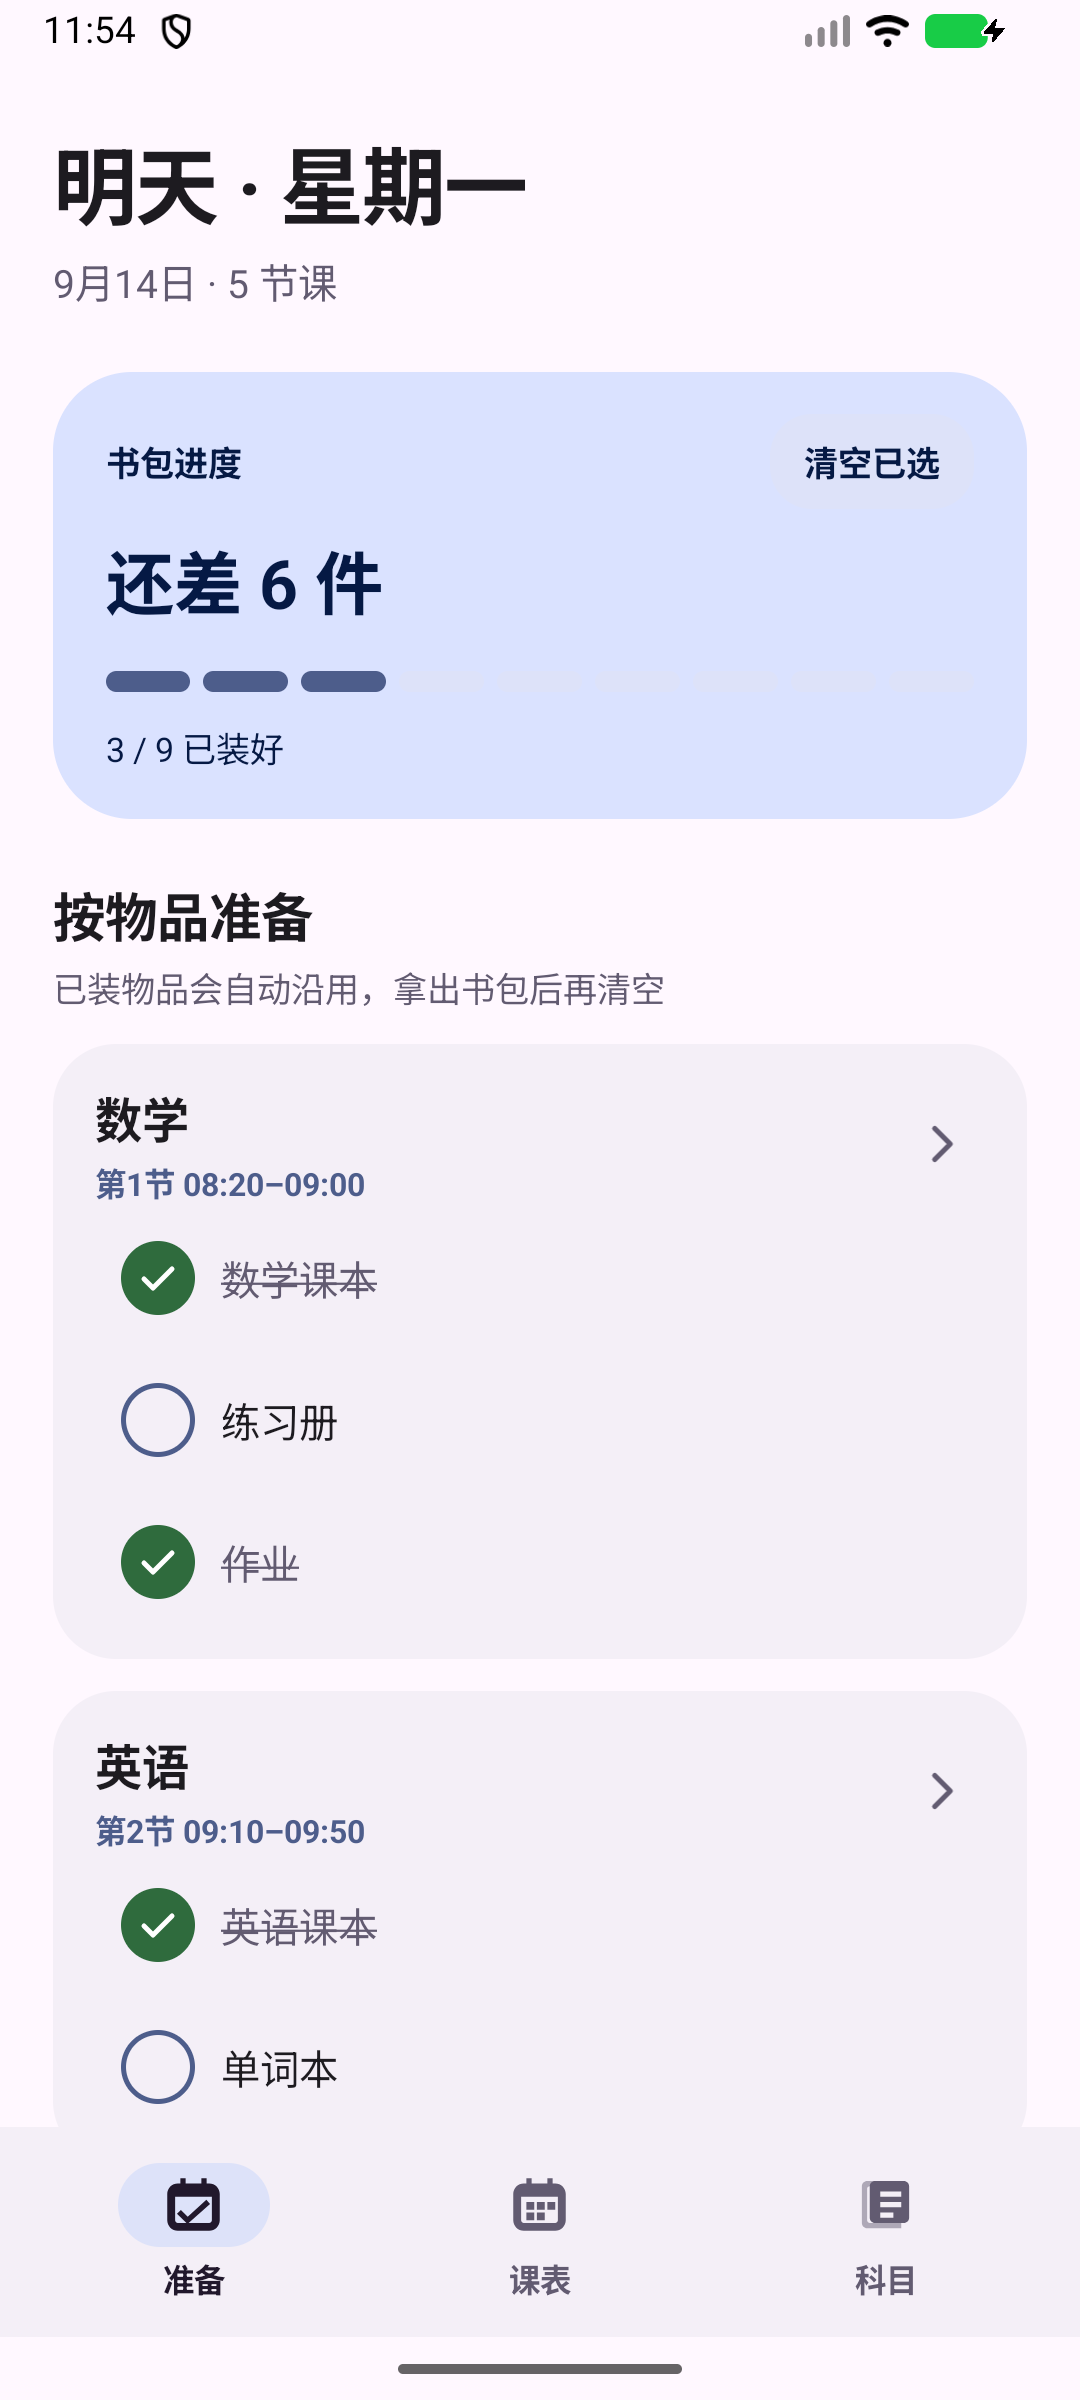
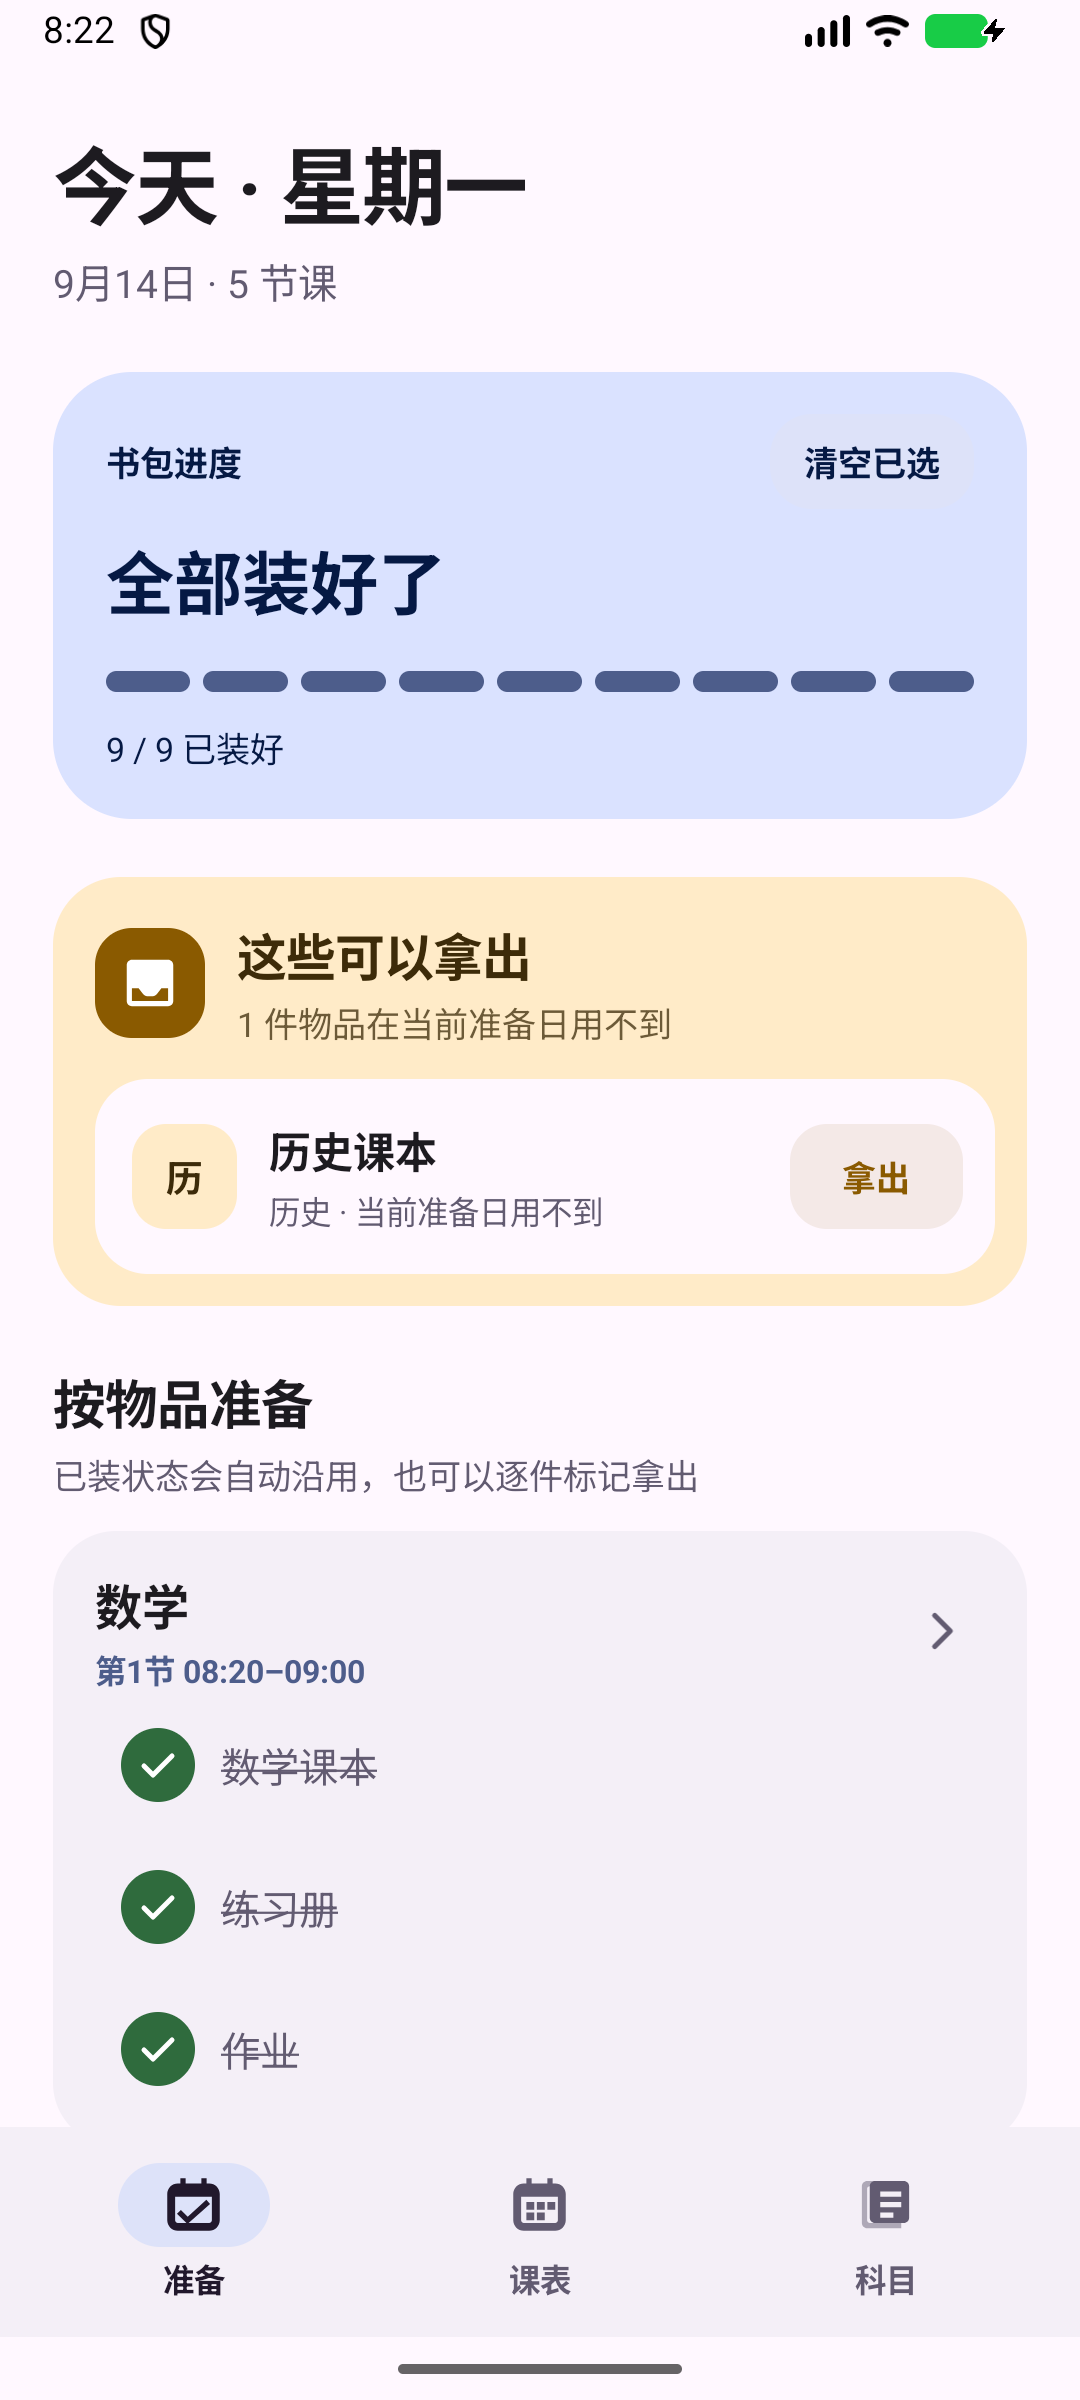
Add take-out guidance for packed items

diff --git a/app/src/main/java/com/kechengbao/app/CoursePackActivity.java b/app/src/main/java/com/kechengbao/app/CoursePackActivity.java
@@ -1,5 +1,8 @@
 package com.kechengbao.app;
 
+import android.animation.Animator;
+import android.animation.AnimatorListenerAdapter;
+import android.animation.ValueAnimator;
 import android.app.Activity;
 import android.app.Dialog;
 import android.content.Intent;
@@ -18,6 +21,7 @@ import android.util.Base64;
 import android.view.Gravity;
 import android.view.HapticFeedbackConstants;
 import android.view.View;
+import android.view.ViewGroup;
 import android.view.Window;
 import android.view.WindowInsets;
 import android.view.WindowManager;
@@ -71,7 +75,8 @@ public class CoursePackActivity extends Activity {
     private LocalDate checklistDate;
     private int pageTransitionId;
     private int bg, surface, surfaceHigh, text, muted, primary, onPrimary, primaryContainer, onPrimaryContainer,
-            secondary, onSecondary, tertiaryContainer, onTertiaryContainer, outline, success;
+            secondary, onSecondary, tertiaryContainer, onTertiaryContainer, outline, success,
+            warningContainer, onWarningContainer, warningAccent;
     private boolean dark;
     private final PathInterpolator emphasized = new PathInterpolator(.2f, 0f, 0f, 1f);
 
@@ -115,6 +120,8 @@ public class CoursePackActivity extends Activity {
         surfaceHigh = dark ? 0xFF2B2930 : 0xFFF4EFF7; text = dark ? 0xFFEAE0EC : 0xFF1D1B20;
         muted = dark ? 0xFFCAC4D0 : 0xFF625B71; outline = dark ? 0xFF49454F : 0xFFE3DDE7;
         success = dark ? 0xFF9BD4A8 : 0xFF2F6B3D;
+        warningContainer = dark ? 0xFF3B2D17 : 0xFFFFEBC8; onWarningContainer = dark ? 0xFFFFE1AD : 0xFF3D2B09;
+        warningAccent = dark ? 0xFFFFB95C : 0xFF8A5A00;
     }
 
     private int systemColor(String name, int fallback) {
@@ -204,8 +211,31 @@ public class CoursePackActivity extends Activity {
         tomorrowStatus=label(progressStatus(tomorrowTotalItems,done,tomorrowMissingSubjects),26,onPrimaryContainer,true);hero.addView(tomorrowStatus,margin(-1,-2,0,6,0,0));
         tomorrowProgressRow=new LinearLayout(this);tomorrowProgressRow.setOrientation(LinearLayout.HORIZONTAL);if(tomorrowTotalItems>0){buildProgressSegments(tomorrowProgressRow,tomorrowTotalItems,done);hero.addView(tomorrowProgressRow,margin(-1,10,0,16,0,0));}
         tomorrowProgressLabel=label(progressLabel(tomorrowTotalItems,done,tomorrowMissingSubjects),13,onPrimaryContainer,false);hero.addView(tomorrowProgressLabel,margin(-1,-2,0,10,0,0));page.addView(hero,margin(-1,-2,0,0,0,22));
-        if(dayEntries.isEmpty())page.addView(emptyState("还没有课程","先到课表页排课。"));else{page.addView(label("按物品准备",20,text,true));page.addView(label("已装物品会自动沿用，拿出书包后再清空",13,muted,false),margin(-1,-2,0,4,0,12));for(Map.Entry<Subject,List<Entry>> group:grouped.entrySet())page.addView(subjectChecklist(group.getKey(),group.getValue()),margin(-1,-2,0,0,0,12));}
+        List<BagItem> takeOutItems=packedItemsNotNeededFor(grouped);if(!takeOutItems.isEmpty())page.addView(takeOutSection(takeOutItems),margin(-1,-2,0,0,0,22));
+        if(dayEntries.isEmpty())page.addView(emptyState("还没有课程","先到课表页排课。"));else{page.addView(label("按物品准备",20,text,true));page.addView(label("已装状态会自动沿用，也可以逐件标记拿出",13,muted,false),margin(-1,-2,0,4,0,12));for(Map.Entry<Subject,List<Entry>> group:grouped.entrySet())page.addView(subjectChecklist(group.getKey(),group.getValue()),margin(-1,-2,0,0,0,12));}
         scroll.addView(page);return scroll;
+    }
+
+    private View takeOutSection(List<BagItem> items){
+        LinearLayout section=column();section.setPadding(dp(16),dp(16),dp(12),dp(12));section.setBackground(shape(warningContainer,26,0,0));
+        LinearLayout heading=new LinearLayout(this);heading.setOrientation(LinearLayout.HORIZONTAL);heading.setGravity(Gravity.CENTER_VERTICAL);ImageView icon=new ImageView(this);icon.setImageResource(R.drawable.ic_take_out);icon.setColorFilter(dark?0xFF3D2B09:Color.WHITE);icon.setPadding(dp(9),dp(9),dp(9),dp(9));icon.setBackground(shape(warningAccent,14,0,0));heading.addView(icon,lp(42,42));
+        LinearLayout headingCopy=column();headingCopy.addView(label("这些可以拿出",19,onWarningContainer,true));TextView summary=label(items.size()+" 件物品在当前准备日用不到",13,onWarningContainer,false);summary.setAlpha(.76f);headingCopy.addView(summary,margin(-1,-2,0,3,0,0));LinearLayout.LayoutParams headingCopyParams=new LinearLayout.LayoutParams(0,-2,1);headingCopyParams.setMargins(dp(12),0,0,0);heading.addView(headingCopy,headingCopyParams);section.addView(heading);
+        LinearLayout list=column();list.setPadding(dp(6),dp(6),dp(6),dp(2));list.setBackground(shape(surface,20,0,0));section.addView(list,margin(-1,-2,0,12,0,0));
+        int[] remaining={items.size()};for(BagItem bagItem:items)list.addView(takeOutRow(bagItem,list,section,summary,remaining),margin(-1,-2,0,0,0,4));return section;
+    }
+
+    private View takeOutRow(BagItem bagItem,LinearLayout list,LinearLayout section,TextView summary,int[] remaining){
+        LinearLayout row=new LinearLayout(this);row.setOrientation(LinearLayout.HORIZONTAL);row.setGravity(Gravity.CENTER_VERTICAL);row.setPadding(dp(8),dp(5),dp(6),dp(5));row.setMinimumHeight(dp(62));row.setBackground(ripple(Color.TRANSPARENT,16));row.setContentDescription("拿出 "+bagItem.item+"，属于 "+bagItem.subject.name);row.setClickable(true);row.setFocusable(true);
+        TextView token=label(bagItem.subject.name.isEmpty()?"物":bagItem.subject.name.substring(0,1),14,onWarningContainer,true);token.setGravity(Gravity.CENTER);token.setBackground(shape(warningContainer,13,0,0));row.addView(token,lp(40,40));
+        LinearLayout copy=column();copy.addView(label(bagItem.item,16,text,true));copy.addView(label(bagItem.subject.name+" · 当前准备日用不到",12,muted,false),margin(-1,-2,0,3,0,0));LinearLayout.LayoutParams copyParams=new LinearLayout.LayoutParams(0,-2,1);copyParams.setMargins(dp(12),0,0,0);row.addView(copy,copyParams);
+        TextView action=label("拿出",13,warningAccent,true);action.setGravity(Gravity.CENTER);action.setBackground(ripple((warningAccent&0x00FFFFFF)|0x18000000,14));row.addView(action,margin(66,40,10,0,0,0));
+        row.setOnClickListener(v->removePackedItem(bagItem,row,list,section,summary,remaining));return row;
+    }
+
+    private void removePackedItem(BagItem bagItem,LinearLayout row,LinearLayout list,LinearLayout section,TextView summary,int[] remaining){
+        if(!isPacked(bagItem.subject.id,bagItem.item)||!row.isEnabled())return;row.performHapticFeedback(HapticFeedbackConstants.CONFIRM);row.setEnabled(false);setPacked(bagItem.subject.id,bagItem.item,false);saveChecks();updateClearChecksButton();
+        Runnable removed=()->{list.removeView(row);remaining[0]--;summary.setText(remaining[0]+" 件物品在当前准备日用不到");if(remaining[0]==0){ViewGroup parent=(ViewGroup)section.getParent();if(parent!=null){if(motionEnabled())section.animate().alpha(0).translationY(-dp(12)).setDuration(170).setInterpolator(emphasized).withEndAction(()->parent.removeView(section)).start();else parent.removeView(section);}}};
+        if(!motionEnabled()){removed.run();return;}int startHeight=Math.max(1,row.getHeight());row.animate().alpha(0).translationX(dp(32)).setDuration(150).setInterpolator(emphasized).withEndAction(()->{ValueAnimator collapse=ValueAnimator.ofInt(startHeight,0);collapse.setDuration(180);collapse.setInterpolator(emphasized);collapse.addUpdateListener(animation->{ViewGroup.LayoutParams params=row.getLayoutParams();params.height=(int)animation.getAnimatedValue();row.setLayoutParams(params);});collapse.addListener(new AnimatorListenerAdapter(){@Override public void onAnimationEnd(Animator animation){removed.run();}});collapse.start();}).start();
     }
 
     private void showClearChecksDialog(){
@@ -339,6 +369,7 @@ public class CoursePackActivity extends Activity {
     private int totalItems(LinkedHashMap<Subject,List<Entry>> grouped){int total=0;for(Subject subject:grouped.keySet())if(!subject.noItems)total+=subject.items.size();return total;}
     private int countMissingSubjects(LinkedHashMap<Subject,List<Entry>> grouped){int total=0;for(Subject subject:grouped.keySet())if(!subject.noItems&&subject.items.isEmpty())total++;return total;}
     private int countDoneItems(LinkedHashMap<Subject,List<Entry>> grouped){int done=0;for(Subject subject:grouped.keySet())if(!subject.noItems)for(String item:subject.items)if(isPacked(subject.id,item))done++;return done;}
+    private List<BagItem> packedItemsNotNeededFor(LinkedHashMap<Subject,List<Entry>> grouped){Set<String> needed=new HashSet<>();for(Subject subject:grouped.keySet())if(!subject.noItems)for(String item:subject.items)needed.add(packedKey(subject.id,item));List<BagItem> out=new ArrayList<>();for(Subject subject:subjects)if(!subject.noItems)for(String item:subject.items)if(isPacked(subject.id,item)&&!needed.contains(packedKey(subject.id,item)))out.add(new BagItem(subject,item));return out;}
     private String timesFor(List<Entry> source){StringBuilder b=new StringBuilder();for(Entry e:source){if(b.length()>0)b.append(" · ");b.append("第").append(e.period).append("节 ").append(e.time);}return b.toString();}
     private String subjectSummary(Subject subject){if(subject.noItems)return"无需携带物品";if(subject.items.isEmpty())return"尚未设置携带物";return joinItems(subject.items);}
     private String joinItems(List<String> items){return String.join("、",items);}
@@ -370,6 +401,7 @@ public class CoursePackActivity extends Activity {
     private static String un64(String s){return new String(Base64.decode(s,Base64.NO_WRAP|Base64.URL_SAFE),StandardCharsets.UTF_8);}
 
     interface MinutesPicked{void accept(int minutes);}
+    static class BagItem{Subject subject;String item;BagItem(Subject subject,String item){this.subject=subject;this.item=item;}}
     static class Subject{String id,name;List<String> items;boolean noItems;Subject(String id,String name,List<String> items,boolean noItems){this.id=id;this.name=name;this.items=items;this.noItems=noItems;}String encode(){return b64(id)+"|"+b64(name)+"|"+(noItems?"1":"0")+"|"+b64(String.join("\u001F",items));}static Subject decode(String line){try{String[] p=line.split("\\|",-1);List<String> items=new ArrayList<>();String raw=un64(p[3]);if(!raw.isEmpty())for(String x:raw.split("\u001F",-1))items.add(x);return new Subject(un64(p[0]),un64(p[1]),items,"1".equals(p[2]));}catch(Exception e){return null;}}}
     static class Entry{String id,subjectId,time;int day,period;Entry(String id,String subjectId,int day,int period,String time){this.id=id;this.subjectId=subjectId;this.day=day;this.period=period;this.time=time;}String encode(){return b64(id)+"|"+b64(subjectId)+"|"+day+"|"+period+"|"+b64(time);}static Entry decode(String line){try{String[] p=line.split("\\|",-1);return new Entry(un64(p[0]),un64(p[1]),Integer.parseInt(p[2]),Integer.parseInt(p[3]),un64(p[4]));}catch(Exception e){return null;}}}
     static class LegacyCourse{String id,subject,time,items;int day,period;LegacyCourse(String id,int day,int period,String subject,String time,String items){this.id=id;this.day=day;this.period=period;this.subject=subject;this.time=time;this.items=items;}static LegacyCourse decode(String line){try{String[] p=line.split("\\|",-1);return new LegacyCourse(un64(p[0]),Integer.parseInt(p[1]),Integer.parseInt(p[2]),un64(p[3]),un64(p[4]),un64(p[5]));}catch(Exception e){return null;}}}

diff --git a/README.md b/README.md
@@ -13,7 +13,7 @@
 </p>
 
 <p align="center">
-  <strong>完整 APK 只有约 779 KiB（0.76 MiB）</strong>
+  <strong>完整 APK 约 783 KiB（0.76 MiB）</strong>
 </p>
 
 课程包是一款轻量的学生课程表与书包整理应用。每个科目的课本、笔记、作业和用品只需设置一次，排入课表后，应用会自动生成当前需要准备的清单。
@@ -33,7 +33,7 @@
 
 ## 截图
 
-<p align="center"><sub>v2.3.0 Android 模拟器实机渲染，课程与携带物为演示数据。</sub></p>
+<p align="center"><sub>v2.4.0 Android 模拟器实机渲染，课程与携带物为演示数据。</sub></p>
 
 <p align="center">
   <img src="docs/images/home.png" width="30%" alt="书包准备清单" />
@@ -45,7 +45,7 @@
   <img src="docs/images/completion.png" width="32%" alt="全部装好完成动效" />
 </p>
 
-## 为什么只有约 779 KiB
+## 为什么只有约 783 KiB
 
 - 使用原生 Android View，不打包网页运行时。
 - 不依赖广告、统计、账号或云服务 SDK。
@@ -60,6 +60,7 @@
 - **科目库**：先建立科目，再统一设置该科目需要携带的物品。
 - **逐件勾选**：每一本书和每一件用品都有独立状态，不会整科一起完成。
 - **书包状态沿用**：已经装入书包的物品会延续到之后的上课日，不必每天重复勾选。
+- **拿出提醒**：自动列出已经装好、但当前准备日不需要的物品，并可逐件标记拿出。
 - **安全清空**：提供“清空已选”，执行前必须二次确认，不会删除课程资料。
 - **无需携带**：体育、班务等科目可以明确标记为无需准备物品。
 - **智能准备日**：早上优先显示今天；18:00 后切换到下一个有课日，并跳过周末和无课日。
@@ -76,7 +77,7 @@
 ## 基本流程
 
 ```text
-建立科目和携带物 → 把科目排入每周课表 → 自动生成准备清单 → 逐件装包
+建立科目和携带物 → 把科目排入每周课表 → 自动生成准备清单 → 逐件装包或拿出
 ```
 
 ## 桌面小组件
@@ -100,7 +101,7 @@ ColorOS 用户可通过以下路径添加：
 
 **[下载最新版本](../../releases/latest)**
 
-当前源码版本：**2.3.0（versionCode 22）**。
+当前源码版本：**2.4.0（versionCode 23）**。
 
 > 仓库只保存源码。APK 应作为 GitHub Release 附件发布，签名密钥不得提交到仓库。
 
@@ -132,7 +133,7 @@ Build → Build APK(s)
 | 编译及目标 API | Android 36 |
 | 数据存储 | SharedPreferences，仅保存在本机 |
 | 网络权限 | 无 |
-| APK 体积 | 797,639 bytes，约 779 KiB |
+| APK 体积 | 801,809 bytes，约 783 KiB |
 
 ## 权限与隐私
 

diff --git a/PRODUCT.md b/PRODUCT.md
@@ -32,6 +32,7 @@ Used on a phone at home, typically the evening before class. The supplied timeta
 - Editable weekly Monday-to-Friday timetable whose entries reference subjects and only own weekday, period, and time.
 - Native time pickers for individual lessons plus reusable batch generation from start time, lesson duration, break duration, period range, and selected weekdays.
 - Tomorrow view that groups repeated lessons by subject and persists a separate check state for every individual item.
+- Take-out guidance that surfaces packed items not required on the current preparation day and removes them from the bag state one item at a time.
 - Offline-only local storage. A fresh installation starts empty so each user can create their own subjects and timetable.
 - Directional screen and bottom-sheet transitions, while respecting the system animator-duration setting.
 - Chinese user interface.
@@ -48,6 +49,7 @@ Material 3 Expressive is a binding visual and interaction reference.
 ## Product Principles
 
 - Packing tomorrow's bag should take under a minute without the list moving after a check.
+- Taking an unneeded item out must update in place without returning the checklist to the top.
 - Editing a subject once must update every timetable occurrence of that subject.
 - Keep the schedule readable before adding decoration.
 - Preserve user data locally and work without an account or network.

diff --git a/DESIGN.md b/DESIGN.md
@@ -166,6 +166,8 @@ components:
 
 每个携带物拥有独立的 28dp 勾选状态和 48dp 触控目标；同一科目同一天出现多次时只展示一组携带物。勾选在原位更新，不重建 ScrollView；状态图标回弹、文字划线且进度段同步变化。没有携带物的科目必须显式标记“无需携带物品”，不能与“尚未设置”混淆，并用单行状态卡避免无意义留白。
 
+已经装入书包、但当前准备日用不到的物品，在主进度后形成一张暖色语义提醒卡。标题、说明和列表共享同一容器，图标与文字保持 12dp 间距；每行用科目首字标记、物品名和紧凑的“拿出”操作形成清晰扫描路径。点击后原位淡出并折叠、触发轻震、立即持久化和刷新小组件，不重建页面或改变滚动位置。没有多余物品时整个区域不占空间。
+
 ## Do's and Don'ts
 
 ### Do:
